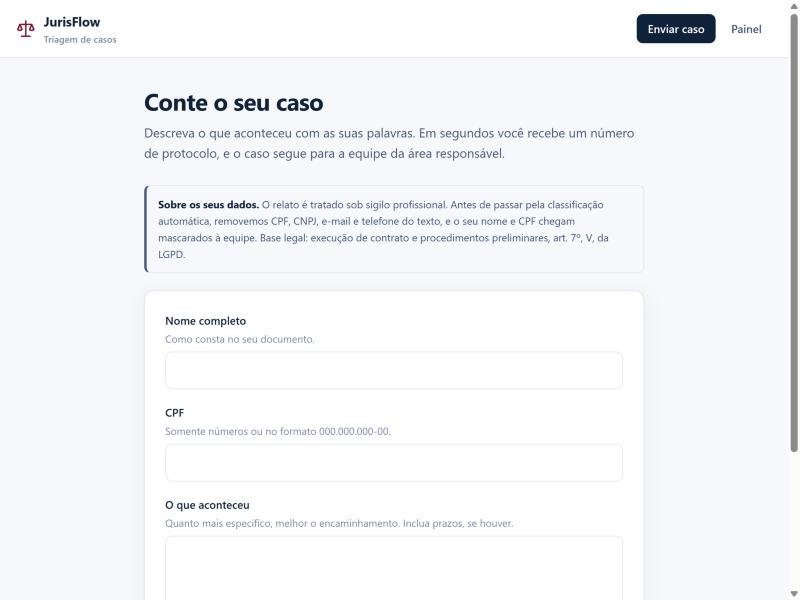
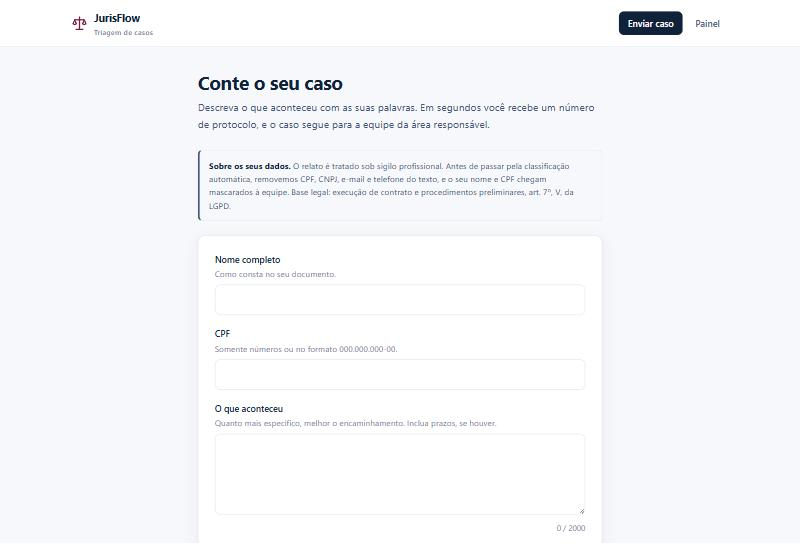
docs: registra a aplicação publicada e verificada em produção
A aplicação está no ar em
https://ai-factory-jurisflow-production.up.railway.app

## Verificação completa, nove itens

healthz responde n8n_configurado true em 0,8 s. As duas telas e os três
ativos estáticos em 200. O segredo não aparece em nenhuma das quatro rotas
públicas. Intake de ponta a ponta por curl: JF-20261106-RKGE3V, Trabalhista.
Intake pelo navegador: JF-20261106-05YYJ5, Consumidor, urgência alta, para um
caso de negativa de plano de saúde com internação marcada. Campos faltando
devolvem 400, a sexta requisição no minuto devolve 429, e o painel coincide
com o endpoint de métricas.

## O estado intermediário também ficou registrado

Entre o deploy e a definição das variáveis, healthz devolveu
n8n_configurado false e as pontes responderam 503 dizendo exatamente o que
faltava, enquanto as telas continuavam servindo.

Registrar isso não é detalhe: na Etapa 2 um HTTP 400 sem corpo custou meia
tarde de diagnóstico, e a lição virou critério de desenho. Falhar dizendo o
que falta é diferente de falhar.

## Janela de uptime

A contagem começa em 06/11/2026 às 15:20, quando as variáveis entraram, e não
no deploy. Antes disso a aplicação servia as telas sem falar com o n8n, e
sistema que não faz o que promete não está no ar no sentido que a rubrica
pede.

As capturas do README passam a ser da URL pública, não mais da execução local.
A do limite de taxa continua local, e a evidência diz por quê: reproduzir o
429 no navegador exigiria esgotar a cota com chamadas reais.

diff --git a/docs/evidencias/2026-11-06-aplicacao-publicada.md b/docs/evidencias/2026-11-06-aplicacao-publicada.md
@@ -1,0 +1,78 @@
+# Evidência — aplicação web publicada e verificada
+
+**Data:** 06/11/2026
+**URL:** https://ai-factory-jurisflow-production.up.railway.app
+**Serviço:** `ai-factory-jurisflow`, no projeto `jurisflow-dev`, ambiente `production`
+**Versão:** merge do PR #9, branch `main`, imagem construída do `Dockerfile` em `app/`
+**Dados:** sintéticos. CPF `111.444.777-35`, válido pelo dígito verificador e de ninguém.
+
+---
+
+## 1. Verificação completa
+
+| # | Verificação | Resultado |
+|---|---|---|
+| 1 | `/healthz` | `{"status":"ok","n8n_configurado":true}` em 0,8 s |
+| 2 | `/` e `/painel` | HTTP 200 |
+| 3 | Ativos estáticos (CSS e dois JS) | HTTP 200 |
+| 4 | **Segredo nos ativos servidos** | **Nenhum**, nas quatro rotas públicas |
+| 5 | Intake de ponta a ponta | `JF-20261106-RKGE3V`, Trabalhista, urgência alta |
+| 6 | Intake pelo navegador | `JF-20261106-05YYJ5`, Consumidor, urgência alta |
+| 7 | Campos obrigatórios ausentes | HTTP 400 |
+| 8 | Limite de taxa, 6ª requisição em um minuto | HTTP 429 |
+| 9 | Painel contra `/api/metricas` | Números coincidem |
+
+O caso do item 6 foi *"meu plano de saúde negou a cirurgia que o médico disse ser urgente e a
+internação está marcada para a próxima semana"*. Classificado como **Consumidor** com
+urgência **alta** — a área está correta e a urgência também, porque há prazo concreto.
+
+## 2. Antes de a configuração chegar
+
+Vale registrar o estado intermediário, porque ele mostra o comportamento desejado na falta de
+configuração. Entre o deploy e a definição das variáveis, `/healthz` devolveu
+`n8n_configurado: false` e as duas pontes responderam **HTTP 503** com
+`"Serviço não configurado: faltam N8N_PUBLIC_URL ou o segredo"`.
+
+A aplicação continuou servindo as telas. Falhar dizendo o que falta é melhor do que falhar
+com erro obscuro, e foi uma lição cara: na Etapa 2, um `HTTP 400 Bad Request` sem corpo
+custou meia tarde de diagnóstico.
+
+## 3. Capturas
+
+| Arquivo | Tela |
+|---|---|
+| [`01-intake-formulario.jpg`](../capturas/01-intake-formulario.jpg) | `/` — o formulário, com o aviso de base legal |
+| [`02-intake-resultado.jpg`](../capturas/02-intake-resultado.jpg) | O cartão de protocolo, área e urgência |
+| [`03-painel-operacao.jpg`](../capturas/03-painel-operacao.jpg) | `/painel` — as cinco métricas e a latência por etapa |
+| [`04-limite-de-taxa.jpg`](../capturas/04-limite-de-taxa.jpg) | A mensagem de excesso de requisições |
+
+As três primeiras foram capturadas na URL pública. A quarta é da execução local, do mesmo
+*build*, porque reproduzir o 429 no navegador exigiria esgotar a cota com chamadas reais.
+
+## 4. Janela de uptime
+
+O enunciado da Etapa 3 é explícito: *"rode a aplicação 24h antes e deixe ligada. Documente a
+janela de uptime. 'Estava no ar ontem' não conta."*
+
+| Marco | Momento |
+|---|---|
+| Deploy concluído | 06/11/2026, por volta das 14:30 |
+| Domínio público gerado | 06/11/2026, por volta das 15:00 |
+| Variáveis definidas, serviço funcional | 06/11/2026, por volta das 15:20 |
+| **Início da contagem** | **06/11/2026, 15:20** |
+
+A contagem começa na terceira linha, e não na primeira: antes disso a aplicação servia as
+telas mas não falava com o n8n, e um sistema que não faz o que promete não está no ar no
+sentido que a rubrica pede.
+
+Conferir o uptime a qualquer momento:
+
+```bash
+curl -s https://ai-factory-jurisflow-production.up.railway.app/healthz
+```
+
+## 5. O que esta evidência não cobre
+
+* **Não houve 24 horas corridas ainda.** A janela começou hoje; a verificação de estabilidade exige voltar amanhã.
+* **O limite de taxa é por processo, e não compartilhado.** Se o Railway escalar o serviço para mais de uma réplica, cada uma terá o próprio contador e o teto efetivo multiplica. Com uma réplica, que é a configuração atual, o teto vale como está.
+* **Não há teste de carga sobre a aplicação.** As 200 requisições da linha de base foram disparadas direto contra o webhook do n8n, e não pela ponte.

diff --git a/README.md b/README.md
@@ -4,7 +4,8 @@ Triagem automática de formulários de intake jurídico: recebe o caso, classifi
 urgência, devolve um protocolo ao cliente e entrega o caso ao time responsável no Slack,
 com a identidade do solicitante mascarada.
 
-**URL pública:** https://n8n-production-81314.up.railway.app/webhook/intake
+**Aplicação:** https://ai-factory-jurisflow-production.up.railway.app · [formulário](https://ai-factory-jurisflow-production.up.railway.app/) · [painel de operação](https://ai-factory-jurisflow-production.up.railway.app/painel)
+**API de intake:** `https://n8n-production-81314.up.railway.app/webhook/intake`
 *A instância anterior, no n8n Cloud, deixou de existir em outubro de 2026. A [ADR-005](docs/adr/ADR-005-railway-nos-dois-ambientes.md) registra por que produção passou para o Railway.*
 **Estado da entrega:** ver [`docs/estado-da-entrega.md`](docs/estado-da-entrega.md), que registra o que está verificado e o que ainda não está
 **README v1.0** · **Versão:** v1.0.0 · [CHANGELOG](CHANGELOG.md) · [Releases](../../releases)
@@ -45,6 +46,8 @@ na branch principal. O caminho de uma requisição:
 | Não classificado | `#juris-triagem-manual` |
 
 ## A aplicação
+
+**No ar em https://ai-factory-jurisflow-production.up.railway.app**, sem login: o formulário é público por natureza e o painel serve apenas agregados.
 
 Duas telas, servidas por um backend próprio em FastAPI.
 

diff --git a/docs/adr/ADR-007-aplicacao-web-com-ponte-para-o-n8n.md b/docs/adr/ADR-007-aplicacao-web-com-ponte-para-o-n8n.md
@@ -94,4 +94,5 @@ A decisão se confirma quando:
 2. O intake pela aplicação produzir protocolo e classificação corretos. **Verificado**: `JF-20261106-2M44FS`, área Trabalhista, urgência alta.
 3. O limite de taxa recusar o excesso com 429. **Verificado**.
 4. O painel refletir os mesmos números do endpoint de métricas. **Verificado**.
-5. A URL pública permanecer estável por 24 horas antes da avaliação. **Pendente**, depende da publicação.
+5. A aplicação estar publicada e funcional em URL própria. **Verificado em 06/11/2026**: https://ai-factory-jurisflow-production.up.railway.app, com intake `JF-20261106-05YYJ5` classificado como Consumidor pelo navegador.
+6. A URL permanecer estável por 24 horas antes da avaliação. **Em curso**, contagem iniciada em 06/11/2026 às 15:20; ver [`evidencias/2026-11-06-aplicacao-publicada.md`](../evidencias/2026-11-06-aplicacao-publicada.md).
